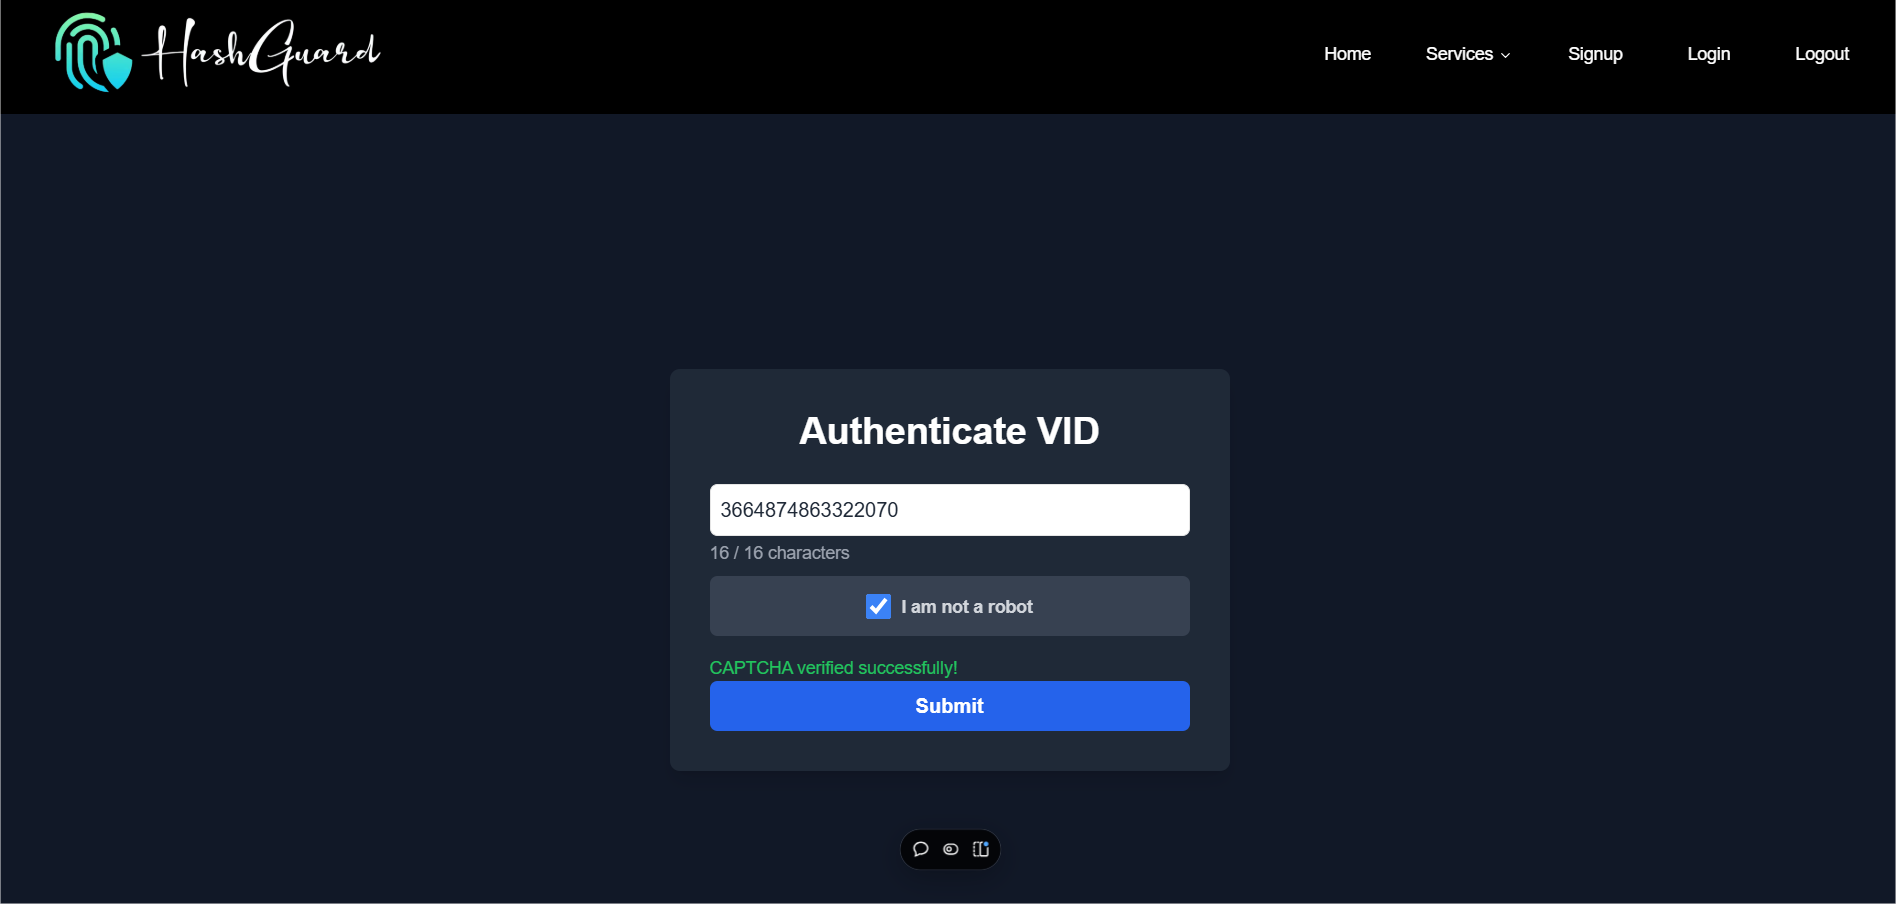
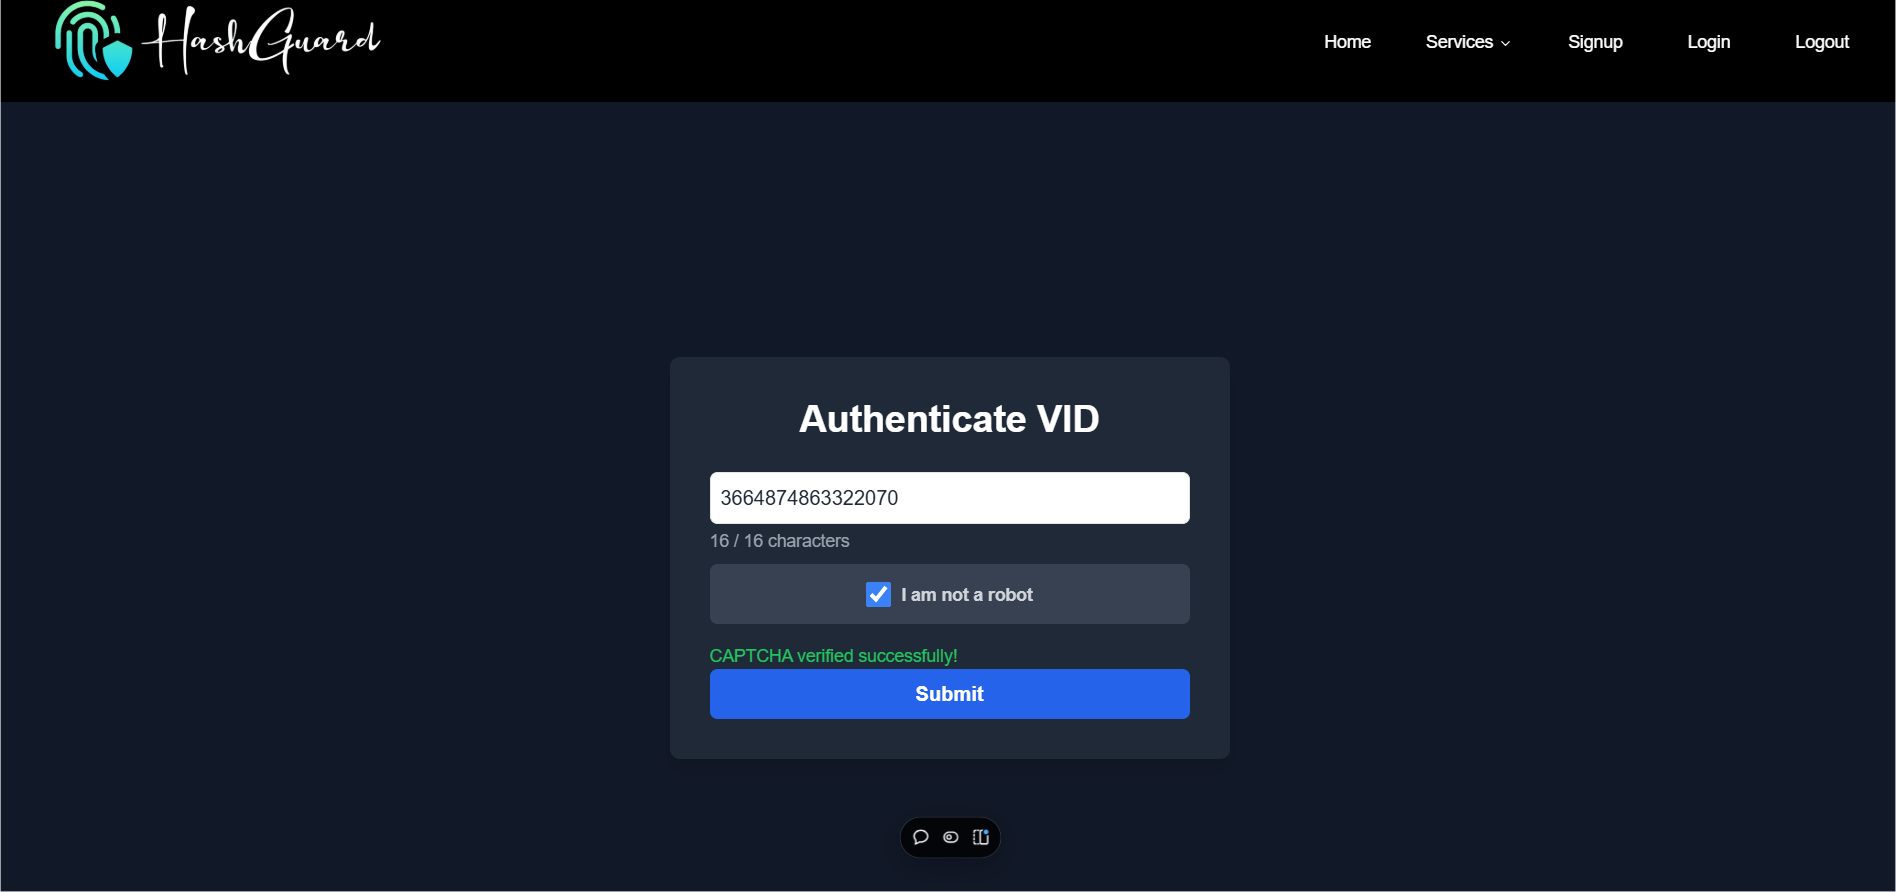
updated readme

Changed region(s): [[0.0, 0.0, 1.0, 1.0], [0.3734, 0.454, 0.6224, 0.8173]]

diff --git a/README.md b/README.md
@@ -33,15 +33,15 @@ Concluded
 This project is designed to provide a secure identity management system based on the Aadhaar number, using a Virtual ID (VID) for authentication.
 
 <p align="center" style="margin-top: 1rem;">
-<img src="public/homepage_snippet.png" alt="homepage snippet 1" width="450"/>
+<img src="public/homepage_snippet.png" alt="homepage snippet 1" width="700"/>
 </p>
 
 <p align="center" style="margin-top: 1rem;">
-<img src="public/homepage_snippet2.png" alt="homepage snippet 2" width="450"/>
+<img src="public/homepage_snippet2.png" alt="homepage snippet 2" width="700"/>
 </p>
 
 <p align="center" style="margin-top: 1rem;">
-<img src="public/homepage_snippet3.png" alt="homepage snippet 3" width="450"/>
+<img src="public/homepage_snippet3.png" alt="homepage snippet 3" width="700"/>
 </p>
 
 ### **How It Works:**
@@ -50,30 +50,30 @@ This project is designed to provide a secure identity management system based on
    * Users register with their Aadhaar number and email ID. The Aadhaar number is securely stored (hashed/encrypted). 
 
    <p align="center" style="margin-top: 1rem;">
-      <img src="public/signup_snippet.png" alt="signup page snippet" width="450"/>
+      <img src="public/signup_snippet.png" alt="signup page snippet" width="700"/>
    </p>
 2. **VID Generation:**  
    * Users can generate a unique VID after verifying their identity through an OTP sent to their registered email. This VID can be used instead of the Aadhaar number for authentication.
 
    <p align="center" style="margin-top: 1rem;">
-   <img src="public/services_snippet.png" alt="services snippet" width="450"/>
+   <img src="public/services_snippet.png" alt="services snippet" width="700"/>
    </p>  
 
-3. **Masked Aadhaar Generation and sent via gmail:**  
+3. **Masked Aadhaar Generation and sent via gmail:*700
    * An Aadhaar-like image is created, displaying the user’s photo (if uploaded) and optional details (address, DOB, etc.), along with the masked Aadhaar number and VID number
 
    <p align="center" style="margin-top: 1rem;">
-      <img src="public/mail_snippet.png" alt="mail snippet 1" width="450"/>
+      <img src="public/mail_snippet.png" alt="mail snippet 1" width="700"/>
    </p>
 
 4. **Authentication:**  
    * Users authenticate using their VID, requiring another OTP verification for added security. A voice CAPTCHA may also be implemented for further verification.
 
    <p align="center" style="margin-top: 1rem;">
-      <img src="public/authenticate_snippet.png" alt="authenticate snippet1" width="450"/>
+      <img src="public/authenticate_snippet.png" alt="authenticate snippet1" width="700"/>
    </p>  
    <p align="center" style="margin-top: 1rem;">
-      <img src="public/authenticate_snippet2.png" alt="authenticate snippet 2" width="450"/>
+      <img src="public/authenticate_snippet2.png" alt="authenticate snippet 2" width="700"/>
    </p>  
 
 5. **VID Retrieval/Replacement:**  
